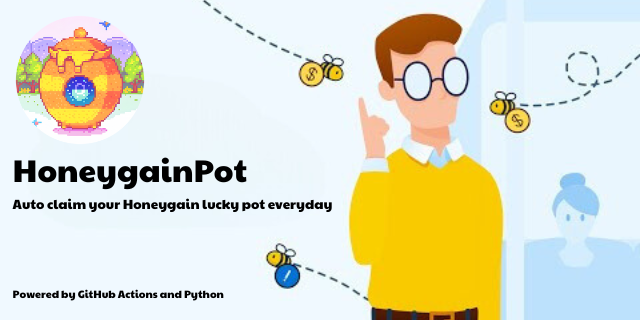
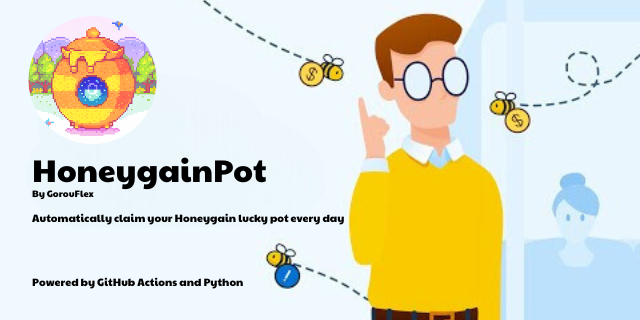
social??

Changed region(s): [[0.0, 0.5, 0.5312, 0.7188], [0.0, 0.0625, 0.25, 0.4375], [0.0, 0.8438, 0.375, 0.9375]]

diff --git a/Docs/README-vn.md b/Docs/README-vn.md
@@ -2,12 +2,16 @@
 <img src="/Img/Banner.png">
 </p>
 <h1 align="center">HoneygainPot - Project Sandy</h1>
-<h4 align="center">🐝 Một con bot giúp bạn nhận lucky pot của Honeygain mỗi ngày🍯 </h4>
+<h4 align="center">🐝 Tự động nhận Honeygain lucky pot của bạn mỗi ngày🍯 </h4>
 <h4 align="center">Dưới sự hỗ trợ của GitHub Actions 🐙 và Python 🐍</h4>
 <p align="center">
+<img alt="GitHub issues" src="https://img.shields.io/github/issues/gorouflex/HoneygainPot?style=flat">
 <img src="https://img.shields.io/github/forks/gorouflex/HoneygainPot?style=flat">
+<p align="center">
 <img src="https://img.shields.io/github/stars/gorouflex/HoneygainPot?style=flat">
+<img alt="GitHub watchers" src="https://img.shields.io/github/watchers/gorouflex/HoneygainPot?style=flat">
 <img src="https://img.shields.io/github/contributors/gorouflex/HoneygainPot?style=flat">
+</p>
 <p align="center">
 <a href="https://github.com/gorouflex/HoneygainPot/actions/workflows/codeql.yml"><img src="https://github.com/gorouflex/HoneygainPot/actions/workflows/codeql.yml/badge.svg"></a>
 <a href="https://github.com/gorouflex/HoneygainPot/actions/workflows/cl.yml"><img src="https://github.com/gorouflex/HoneygainPot/actions/workflows/cl.yml/badge.svg"></a>
@@ -134,6 +138,14 @@ on:
 > - **Tôi GorouFlex và MrLolf** **không có trách nhiệm** cho bất kỳ hậu quả mà có thể phát sinh trong quá trình dùng Script/Bot này
 > - Nếu Honeygain muốn chúng tôi xoá con bot này thì chúng tôi sẽ làm
 
+## Recent activity [![Time period](https://images.repography.com/44739709/gorouflex/HoneygainPot/recent-activity/tXCw9M5i0HgQ3S3BsxKFTCsKpg43C6MCG6gN6bnFCTc/fRHoqaVaReVH-CrjejSHavn1gHM4SFsKAtm_P7QJivk_badge.svg)](https://repography.com)
+[![Timeline graph](https://images.repography.com/44739709/gorouflex/HoneygainPot/recent-activity/tXCw9M5i0HgQ3S3BsxKFTCsKpg43C6MCG6gN6bnFCTc/fRHoqaVaReVH-CrjejSHavn1gHM4SFsKAtm_P7QJivk_timeline.svg)](https://github.com/gorouflex/HoneygainPot/commits)
+[![Issue status graph](https://images.repography.com/44739709/gorouflex/HoneygainPot/recent-activity/tXCw9M5i0HgQ3S3BsxKFTCsKpg43C6MCG6gN6bnFCTc/fRHoqaVaReVH-CrjejSHavn1gHM4SFsKAtm_P7QJivk_issues.svg)](https://github.com/gorouflex/HoneygainPot/issues)
+[![Pull request status graph](https://images.repography.com/44739709/gorouflex/HoneygainPot/recent-activity/tXCw9M5i0HgQ3S3BsxKFTCsKpg43C6MCG6gN6bnFCTc/fRHoqaVaReVH-CrjejSHavn1gHM4SFsKAtm_P7QJivk_prs.svg)](https://github.com/gorouflex/HoneygainPot/pulls)
+[![Trending topics](https://images.repography.com/44739709/gorouflex/HoneygainPot/recent-activity/tXCw9M5i0HgQ3S3BsxKFTCsKpg43C6MCG6gN6bnFCTc/fRHoqaVaReVH-CrjejSHavn1gHM4SFsKAtm_P7QJivk_words.svg)](https://github.com/gorouflex/HoneygainPot/commits)
+[![Top contributors](https://images.repography.com/44739709/gorouflex/HoneygainPot/recent-activity/tXCw9M5i0HgQ3S3BsxKFTCsKpg43C6MCG6gN6bnFCTc/fRHoqaVaReVH-CrjejSHavn1gHM4SFsKAtm_P7QJivk_users.svg)](https://github.com/gorouflex/HoneygainPot/graphs/contributors)
+[![Activity map](https://images.repography.com/44739709/gorouflex/HoneygainPot/recent-activity/tXCw9M5i0HgQ3S3BsxKFTCsKpg43C6MCG6gN6bnFCTc/fRHoqaVaReVH-CrjejSHavn1gHM4SFsKAtm_P7QJivk_map.svg)](https://github.com/gorouflex/HoneygainPot/commits)
+
 ### Đặt biệt cảm ơn 💖
-- [MrLolf](https://github.com/MrLoLf/) x [HoneygainAutoClaim](https://github.com/MrLoLf/HoneygainAutoClaim) cho nền tảng ban đầu của repo
+- [MrLolf](https://github.com/MrLoLf/) x [HoneygainAutoClaim](https://github.com/MrLoLf/HoneygainAutoClaim) cho mã nguồn mở
 - [rfoal](https://github.com/rfoel/) x [duolingo](https://github.com/rfoel/duolingo) cho ý tưởng

diff --git a/README.md b/README.md
@@ -2,12 +2,16 @@
 <img src="Img/Banner.png"             
 </p>
 <h1 align="center">HoneygainPot - Project Sandy</h1>
-<h4 align="center">🐝 A bot that claims Honeygain lucky pot every day 🍯</h4>
+<h4 align="center">🐝 Automatically claim your Honeygain lucky pot every day 🍯</h4>
 <h4 align="center">Powered by GitHub Actions 🐙 and Python 🐍</h4>
 <p align="center">
+<img alt="GitHub issues" src="https://img.shields.io/github/issues/gorouflex/HoneygainPot?style=flat">
 <img src="https://img.shields.io/github/forks/gorouflex/HoneygainPot?style=flat">
+<p align="center">
 <img src="https://img.shields.io/github/stars/gorouflex/HoneygainPot?style=flat">
+<img alt="GitHub watchers" src="https://img.shields.io/github/watchers/gorouflex/HoneygainPot?style=flat">
 <img src="https://img.shields.io/github/contributors/gorouflex/HoneygainPot?style=flat">
+</p>
 <p align="center">
 <a href="https://github.com/gorouflex/HoneygainPot/actions/workflows/codeql.yml"><img src="https://github.com/gorouflex/HoneygainPot/actions/workflows/codeql.yml/badge.svg"></a>
 <a href="https://github.com/gorouflex/HoneygainPot/actions/workflows/cl.yml"><img src="https://github.com/gorouflex/HoneygainPot/actions/workflows/cl.yml/badge.svg"></a>
@@ -132,6 +136,14 @@ on:
 > - The **author** is **not responsible** for any consequences that may arise from using this script. If Honeygain wants me 
 to delete this bot, I'll do it.
 
+## Recent activity [![Time period](https://images.repography.com/44739709/gorouflex/HoneygainPot/recent-activity/tXCw9M5i0HgQ3S3BsxKFTCsKpg43C6MCG6gN6bnFCTc/fRHoqaVaReVH-CrjejSHavn1gHM4SFsKAtm_P7QJivk_badge.svg)](https://repography.com)
+[![Timeline graph](https://images.repography.com/44739709/gorouflex/HoneygainPot/recent-activity/tXCw9M5i0HgQ3S3BsxKFTCsKpg43C6MCG6gN6bnFCTc/fRHoqaVaReVH-CrjejSHavn1gHM4SFsKAtm_P7QJivk_timeline.svg)](https://github.com/gorouflex/HoneygainPot/commits)
+[![Issue status graph](https://images.repography.com/44739709/gorouflex/HoneygainPot/recent-activity/tXCw9M5i0HgQ3S3BsxKFTCsKpg43C6MCG6gN6bnFCTc/fRHoqaVaReVH-CrjejSHavn1gHM4SFsKAtm_P7QJivk_issues.svg)](https://github.com/gorouflex/HoneygainPot/issues)
+[![Pull request status graph](https://images.repography.com/44739709/gorouflex/HoneygainPot/recent-activity/tXCw9M5i0HgQ3S3BsxKFTCsKpg43C6MCG6gN6bnFCTc/fRHoqaVaReVH-CrjejSHavn1gHM4SFsKAtm_P7QJivk_prs.svg)](https://github.com/gorouflex/HoneygainPot/pulls)
+[![Trending topics](https://images.repography.com/44739709/gorouflex/HoneygainPot/recent-activity/tXCw9M5i0HgQ3S3BsxKFTCsKpg43C6MCG6gN6bnFCTc/fRHoqaVaReVH-CrjejSHavn1gHM4SFsKAtm_P7QJivk_words.svg)](https://github.com/gorouflex/HoneygainPot/commits)
+[![Top contributors](https://images.repography.com/44739709/gorouflex/HoneygainPot/recent-activity/tXCw9M5i0HgQ3S3BsxKFTCsKpg43C6MCG6gN6bnFCTc/fRHoqaVaReVH-CrjejSHavn1gHM4SFsKAtm_P7QJivk_users.svg)](https://github.com/gorouflex/HoneygainPot/graphs/contributors)
+[![Activity map](https://images.repography.com/44739709/gorouflex/HoneygainPot/recent-activity/tXCw9M5i0HgQ3S3BsxKFTCsKpg43C6MCG6gN6bnFCTc/fRHoqaVaReVH-CrjejSHavn1gHM4SFsKAtm_P7QJivk_map.svg)](https://github.com/gorouflex/HoneygainPot/commits)
+
 ### Special thanks to 💖
-- [MrLolf](https://github.com/MrLoLf/) x [HoneygainAutoClaim](https://github.com/MrLoLf/HoneygainAutoClaim) for based code
+- [MrLolf](https://github.com/MrLoLf/) x [HoneygainAutoClaim](https://github.com/MrLoLf/HoneygainAutoClaim) for source code
 - [rfoal](https://github.com/rfoel/) x [duolingo](https://github.com/rfoel/duolingo) for the idea
